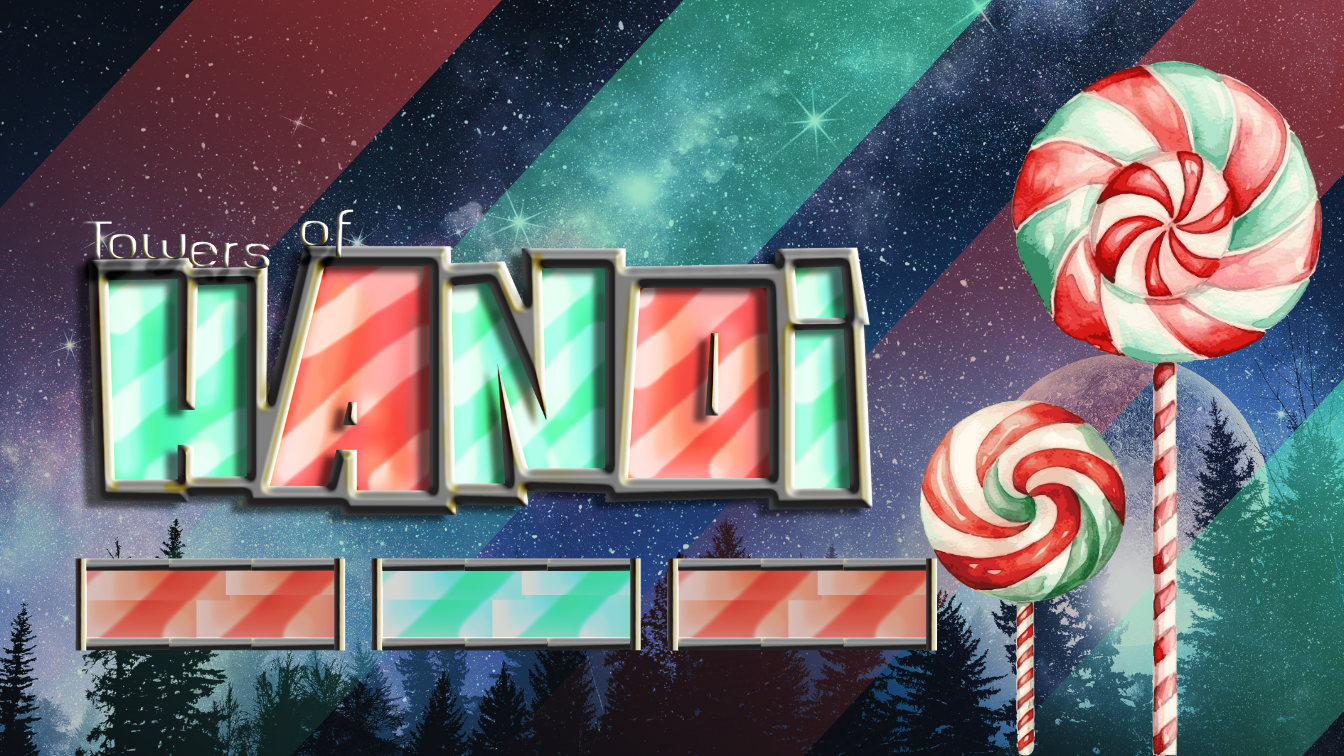
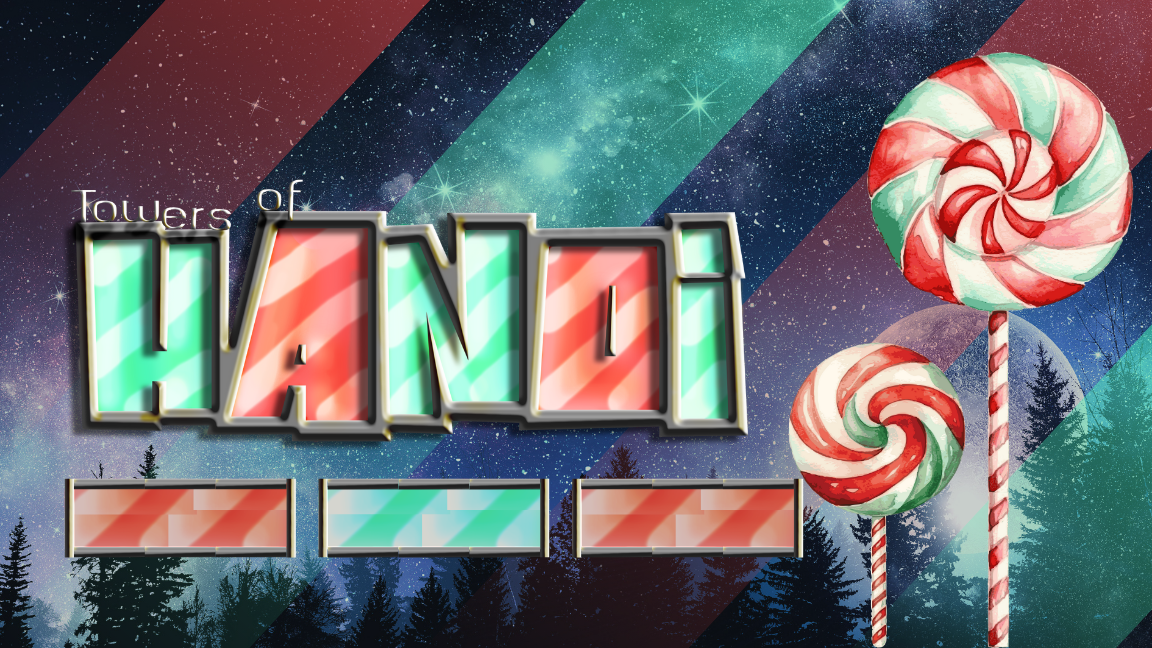
:)

diff --git a/src/StartPage.java b/src/StartPage.java
@@ -4,10 +4,7 @@ import java.awt.event.ActionListener;
 import java.awt.*;
 import java.io.File;
 import java.io.IOException;
-import java.io.InputStream;
 import java.net.URL;
-import java.util.logging.Level;
-import java.util.logging.Logger;
 
 public class StartPage {
     //INSTANCE VARIABLES
@@ -16,18 +13,11 @@ public class StartPage {
 
 
     //FORMATTING METHODS
-    private Font theNormalFont(int size) {
+    private Font theNormalFont(int size){
 
         GraphicsEnvironment graphics = GraphicsEnvironment.getLocalGraphicsEnvironment();
         ClassLoader classloader = Thread.currentThread().getContextClassLoader();
-
-        try(InputStream stream = classloader.getResourceAsStream("CaviarDreams.ttf")) {
-            Font font = Font.createFont(Font.TRUETYPE_FONT,stream);
-        } catch (FontFormatException | IOException x) {
-            //Logger.getLogger(FontLoader.class.getName()).log(Level.SEVERE,null,x);
-        }
-
-        URL url = classloader.getResource("CaviarDreams/CaviarDreams.ttf");
+        URL url = classloader.getResource("CaviarDreams.ttf");
         File fontFile = new File(String.valueOf(url));
         Font caviarDreams = null;
 
@@ -38,6 +28,7 @@ public class StartPage {
         } catch (IOException | FontFormatException e) {
             System.out.println("ERROR! Code in 'e.printStackTrace()' to print stack trace: ");
         }
+
         return caviarDreams;
     }
 
@@ -99,12 +90,12 @@ public class StartPage {
         playButton.setBounds(35,565,376,80);
         pane.add(playButton);
 
-        background.setBounds(0,0,1344,756);
+        background.setBounds(0,0,1152,648);
         pane.add(background,JLayeredPane.DEFAULT_LAYER);
 
         frame.setDefaultCloseOperation(WindowConstants.EXIT_ON_CLOSE);
         frame.add(pane);
-        frame.setSize(1344,756);
+        frame.setSize(1152,678);
         frame.setVisible(true);
     }
 

diff --git a/src/Instructions.java b/src/Instructions.java
@@ -27,12 +27,12 @@ public class Instructions extends JFrame{
         Back.setBounds(0,0,50,50);
         pane.add(Back);
 
-        background.setBounds(0,0,1344,756);
+        background.setBounds(0,0,1152,648);
         pane.add(background,JLayeredPane.DEFAULT_LAYER);
 
         frame.setDefaultCloseOperation(WindowConstants.EXIT_ON_CLOSE);
         frame.add(pane);
-        frame.setSize(1344,756);
+        frame.setSize(1152,678);
         frame.setVisible(true);
 
     }
